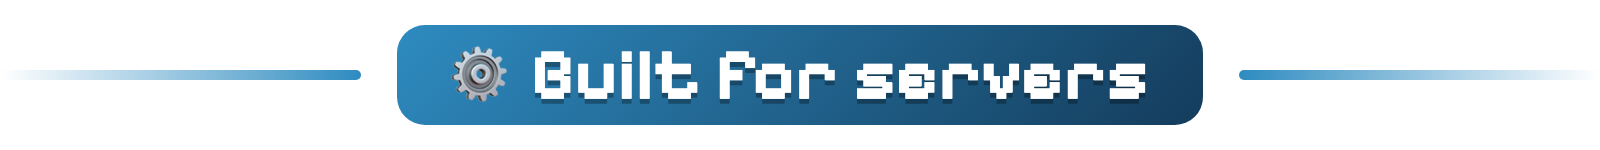
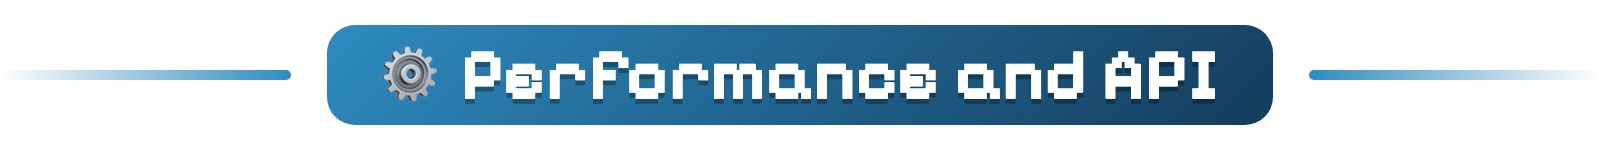
fix: copy

Changed region(s): [[0.0938, 0.16, 0.9062, 0.8533]]

diff --git a/LISTING.md b/LISTING.md
@@ -11,8 +11,8 @@ curseforge_slugs:
 </center>
 
 <center>
-<img src="https://raw.githubusercontent.com/Wroud/mc-worlds/main/docs/listing/badge-performance.png" alt="Performance: worlds load on demand, nothing idles" height="44">
-<img src="https://raw.githubusercontent.com/Wroud/mc-worlds/main/docs/listing/badge-vanilla.png" alt="Vanilla-like: vanilla commands, vanilla mechanics" height="44">
+<img src="https://raw.githubusercontent.com/Wroud/mc-worlds/main/docs/listing/badge-performance.png" alt="Performance: worlds load on demand and unload when empty" height="44">
+<img src="https://raw.githubusercontent.com/Wroud/mc-worlds/main/docs/listing/badge-vanilla.png" alt="Vanilla-like: vanilla commands and mechanics" height="44">
 <img src="https://raw.githubusercontent.com/Wroud/mc-worlds/main/docs/listing/badge-latest.png" alt="Latest Minecraft: updated within a week of each release" height="44">
 </center>
 
@@ -23,10 +23,10 @@ curseforge_slugs:
 <img src="https://img.shields.io/badge/Side-Server-2E8BC0?style=for-the-badge&labelColor=143C5C" alt="Server side, optional on the client">
 </center>
 
-**Worlds** lets a Fabric server run as many worlds as it wants, the way Multiverse does on Paper. Create, list, delete and teleport between worlds with in-game commands, and give each one its own time, weather and game rules. Every world plays like real vanilla Minecraft, down to the End dragon, which also makes Worlds a base other mods build their dimensions on. Coming from World Manager or Multiworld? Your worlds move over with one command each.
+**Worlds** lets a Fabric server run as many worlds as it wants, the way Multiverse does on Paper. Create, list, delete and teleport between worlds with in-game commands, and give each one its own time, weather and game rules. Every world plays like real vanilla Minecraft, down to the End dragon, which also makes Worlds a base other mods build their dimensions on. Worlds from World Manager or Multiworld can be recreated with one command each.
 
 <center>
-<img src="https://raw.githubusercontent.com/Wroud/mc-worlds/main/docs/listing/ribbon-create.png" alt="One command, any world" width="100%">
+<img src="https://raw.githubusercontent.com/Wroud/mc-worlds/main/docs/listing/ribbon-create.png" alt="Creating worlds" width="100%">
 </center>
 
 <table>
@@ -35,14 +35,14 @@ curseforge_slugs:
             <img src="https://raw.githubusercontent.com/Wroud/mc-worlds/main/docs/listing/create-end.webp" alt="Typing /worlds create event_end from-dimension minecraft:the_end, then /worlds tp event_end, and arriving in a new End under the circling Ender Dragon" width="100%">
         </td>
         <td width="40%">
-            <h2>Any kind of world</h2>
+            <h2>World types</h2>
             <p><code>/worlds create &lt;id&gt;</code> makes an Overworld. Add <code>from-preset</code> for flat, amplified or any data pack preset, or <code>from-dimension</code> for a Nether, an End or any dimension type. <code>/worlds tp</code> takes you there.</p>
         </td>
     </tr>
 </table>
 
 <center>
-<img src="https://raw.githubusercontent.com/Wroud/mc-worlds/main/docs/listing/ribbon-vanilla.png" alt="Real vanilla everywhere" width="100%">
+<img src="https://raw.githubusercontent.com/Wroud/mc-worlds/main/docs/listing/ribbon-vanilla.png" alt="Vanilla mechanics" width="100%">
 </center>
 
 - **The End dragon fight, portals, maps and ender pearls work in every world** you create, not only in the original three.
@@ -51,7 +51,7 @@ curseforge_slugs:
 - **Nothing new to learn.** No extra commands for weather, time or rules, and the Overworld, Nether and End behave exactly as in vanilla.
 
 <center>
-<img src="https://raw.githubusercontent.com/Wroud/mc-worlds/main/docs/listing/ribbon-servers.png" alt="Built for servers" width="100%">
+<img src="https://raw.githubusercontent.com/Wroud/mc-worlds/main/docs/listing/ribbon-servers.png" alt="Performance and API" width="100%">
 </center>
 
 - **Load on demand.** A world loads when a player enters it and unloads a minute after the last player leaves, so you can keep hundreds of worlds without paying for idle ones.
